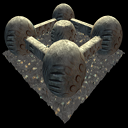
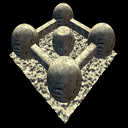
Volume Rendering: Fixed inverted normals of the Noise generator.

diff --git a/Components/Volume/src/OgreVolumeCSGSource.cpp b/Components/Volume/src/OgreVolumeCSGSource.cpp
@@ -311,9 +311,9 @@ namespace Volume {
     Vector4 CSGNoiseSource::getValueAndGradient(const Vector3 &position) const
     {
         return Vector4(
-            getInternalValue(Vector3(position.x + mGradientOff, position.y, position.z)) - getInternalValue(Vector3(position.x - mGradientOff, position.y, position.z)),
-            getInternalValue(Vector3(position.x, position.y + mGradientOff, position.z)) - getInternalValue(Vector3(position.x, position.y - mGradientOff, position.z)),
-            getInternalValue(Vector3(position.x, position.y, position.z + mGradientOff)) - getInternalValue(Vector3(position.x, position.y, position.z - mGradientOff)),
+            -(getInternalValue(Vector3(position.x + mGradientOff, position.y, position.z)) - getInternalValue(Vector3(position.x - mGradientOff, position.y, position.z))),
+            -(getInternalValue(Vector3(position.x, position.y + mGradientOff, position.z)) - getInternalValue(Vector3(position.x, position.y - mGradientOff, position.z))),
+            -(getInternalValue(Vector3(position.x, position.y, position.z + mGradientOff)) - getInternalValue(Vector3(position.x, position.y, position.z - mGradientOff))),
             getInternalValue(position));
     }
     
